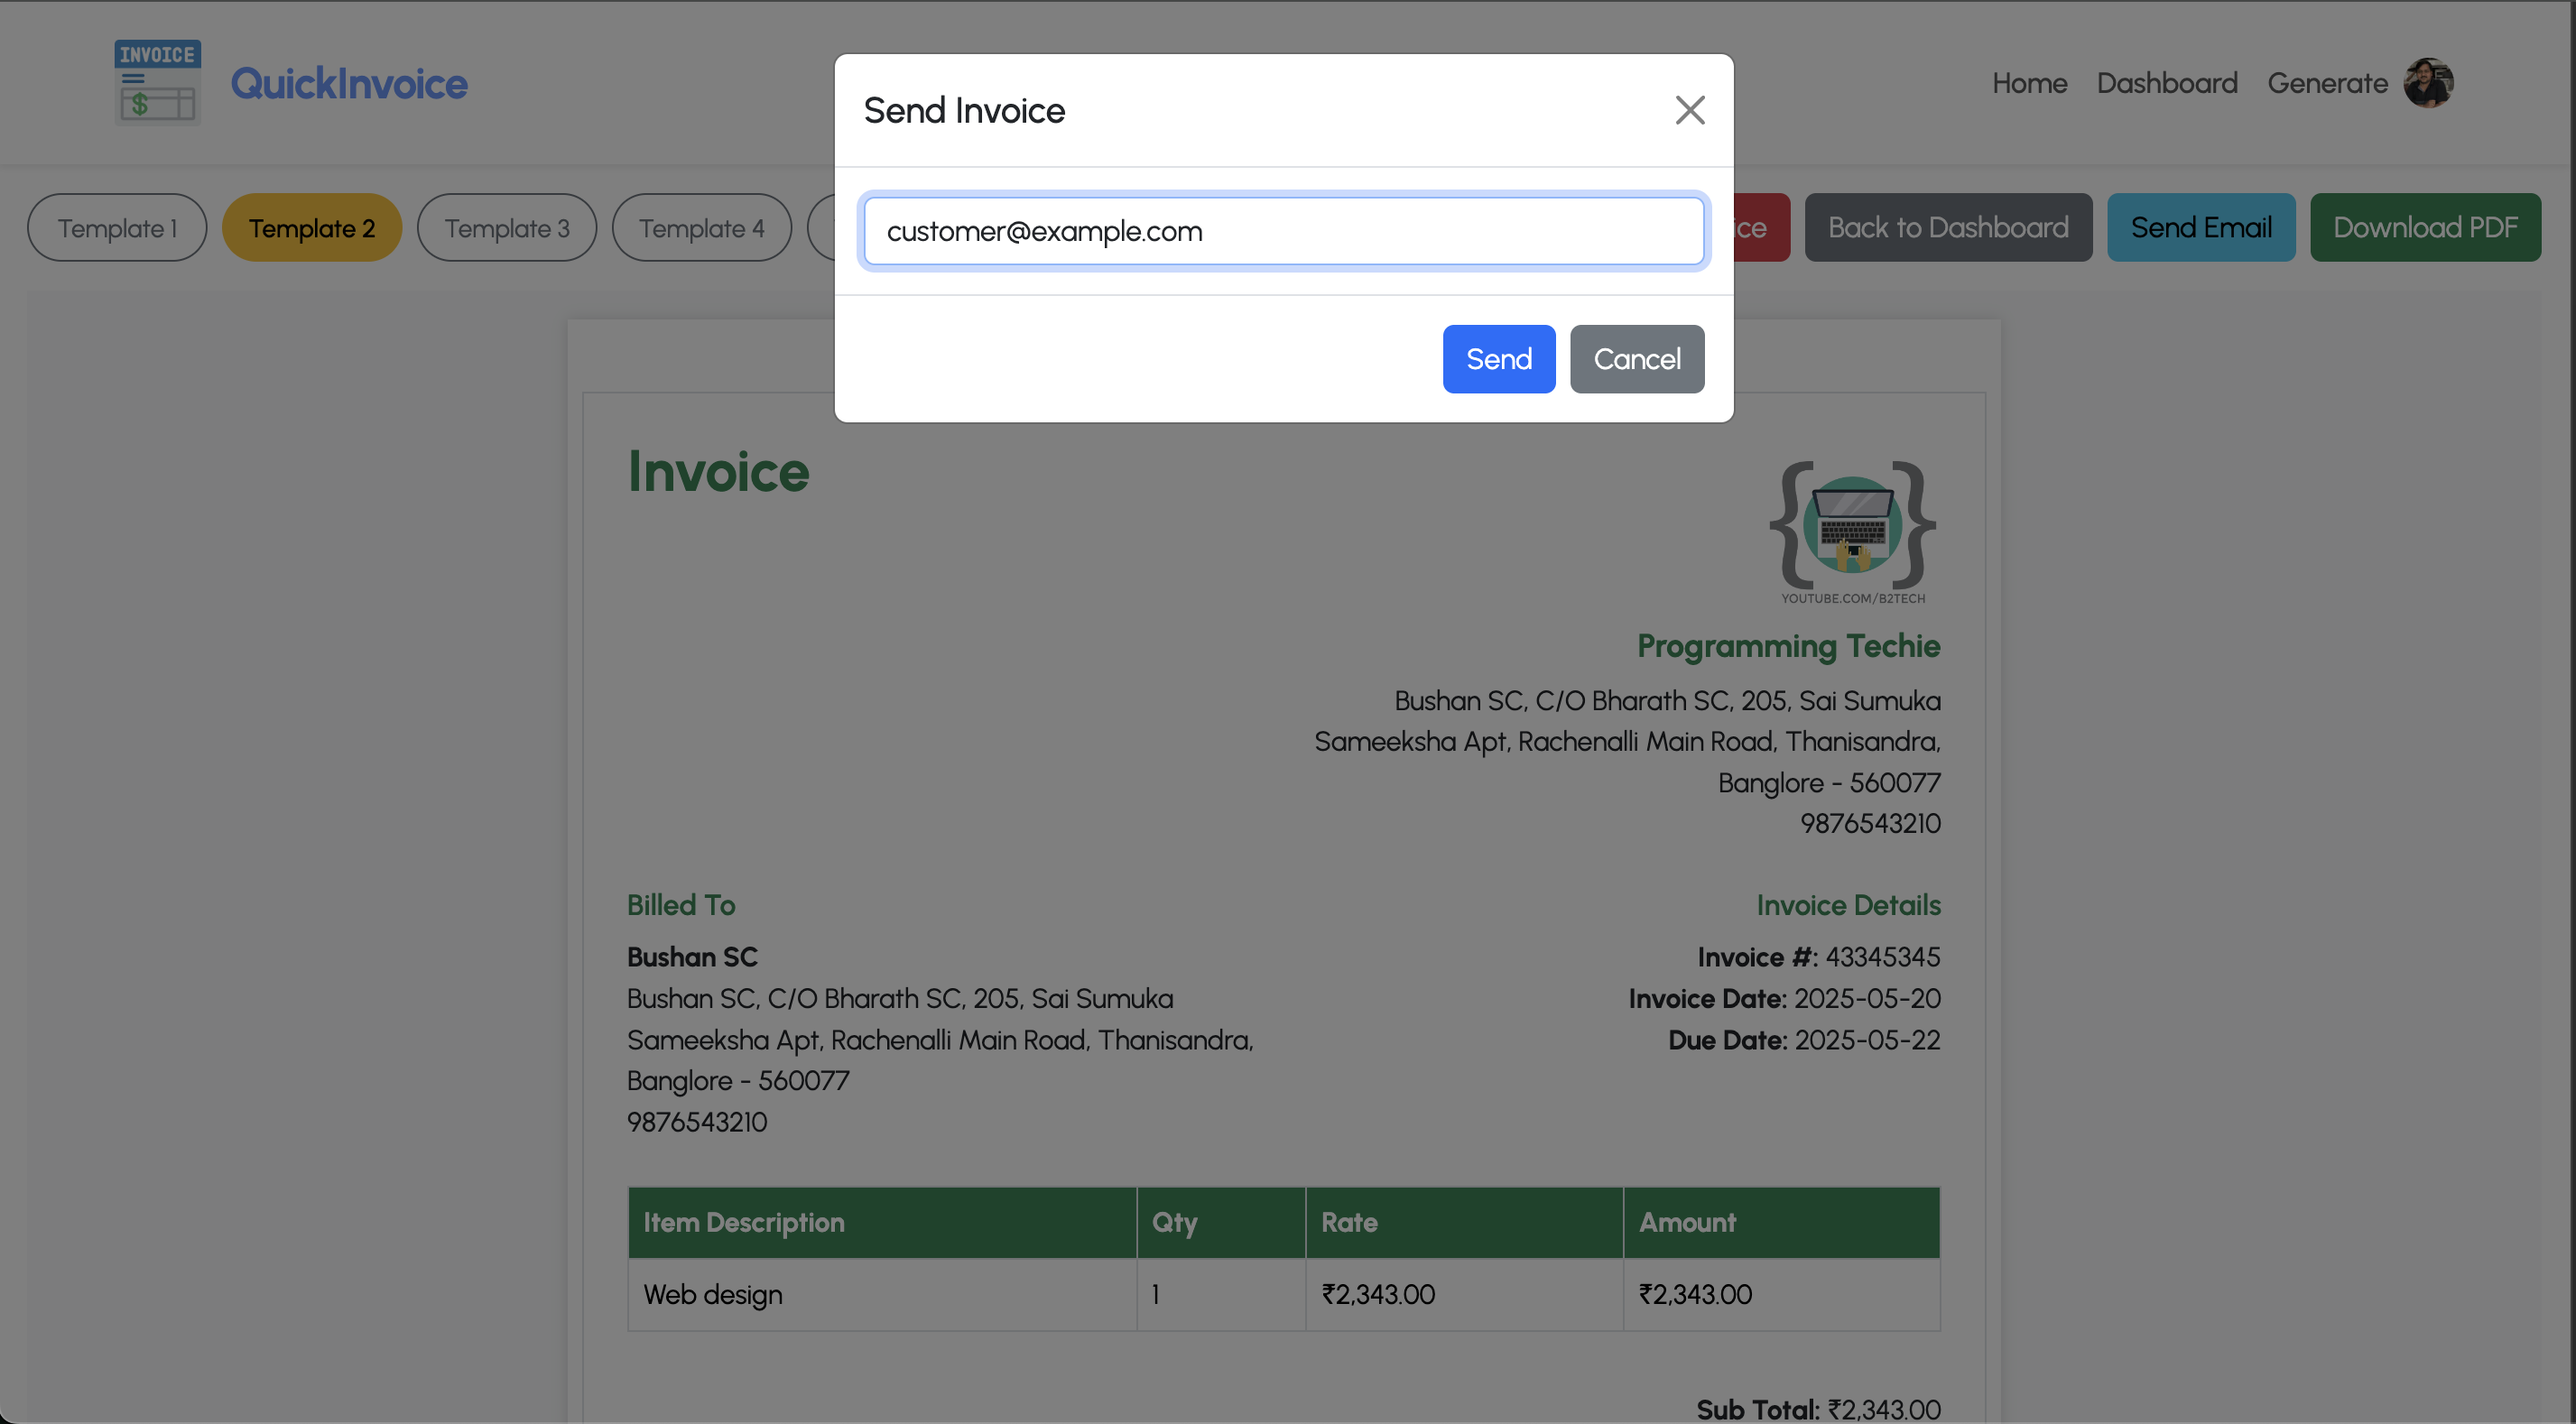
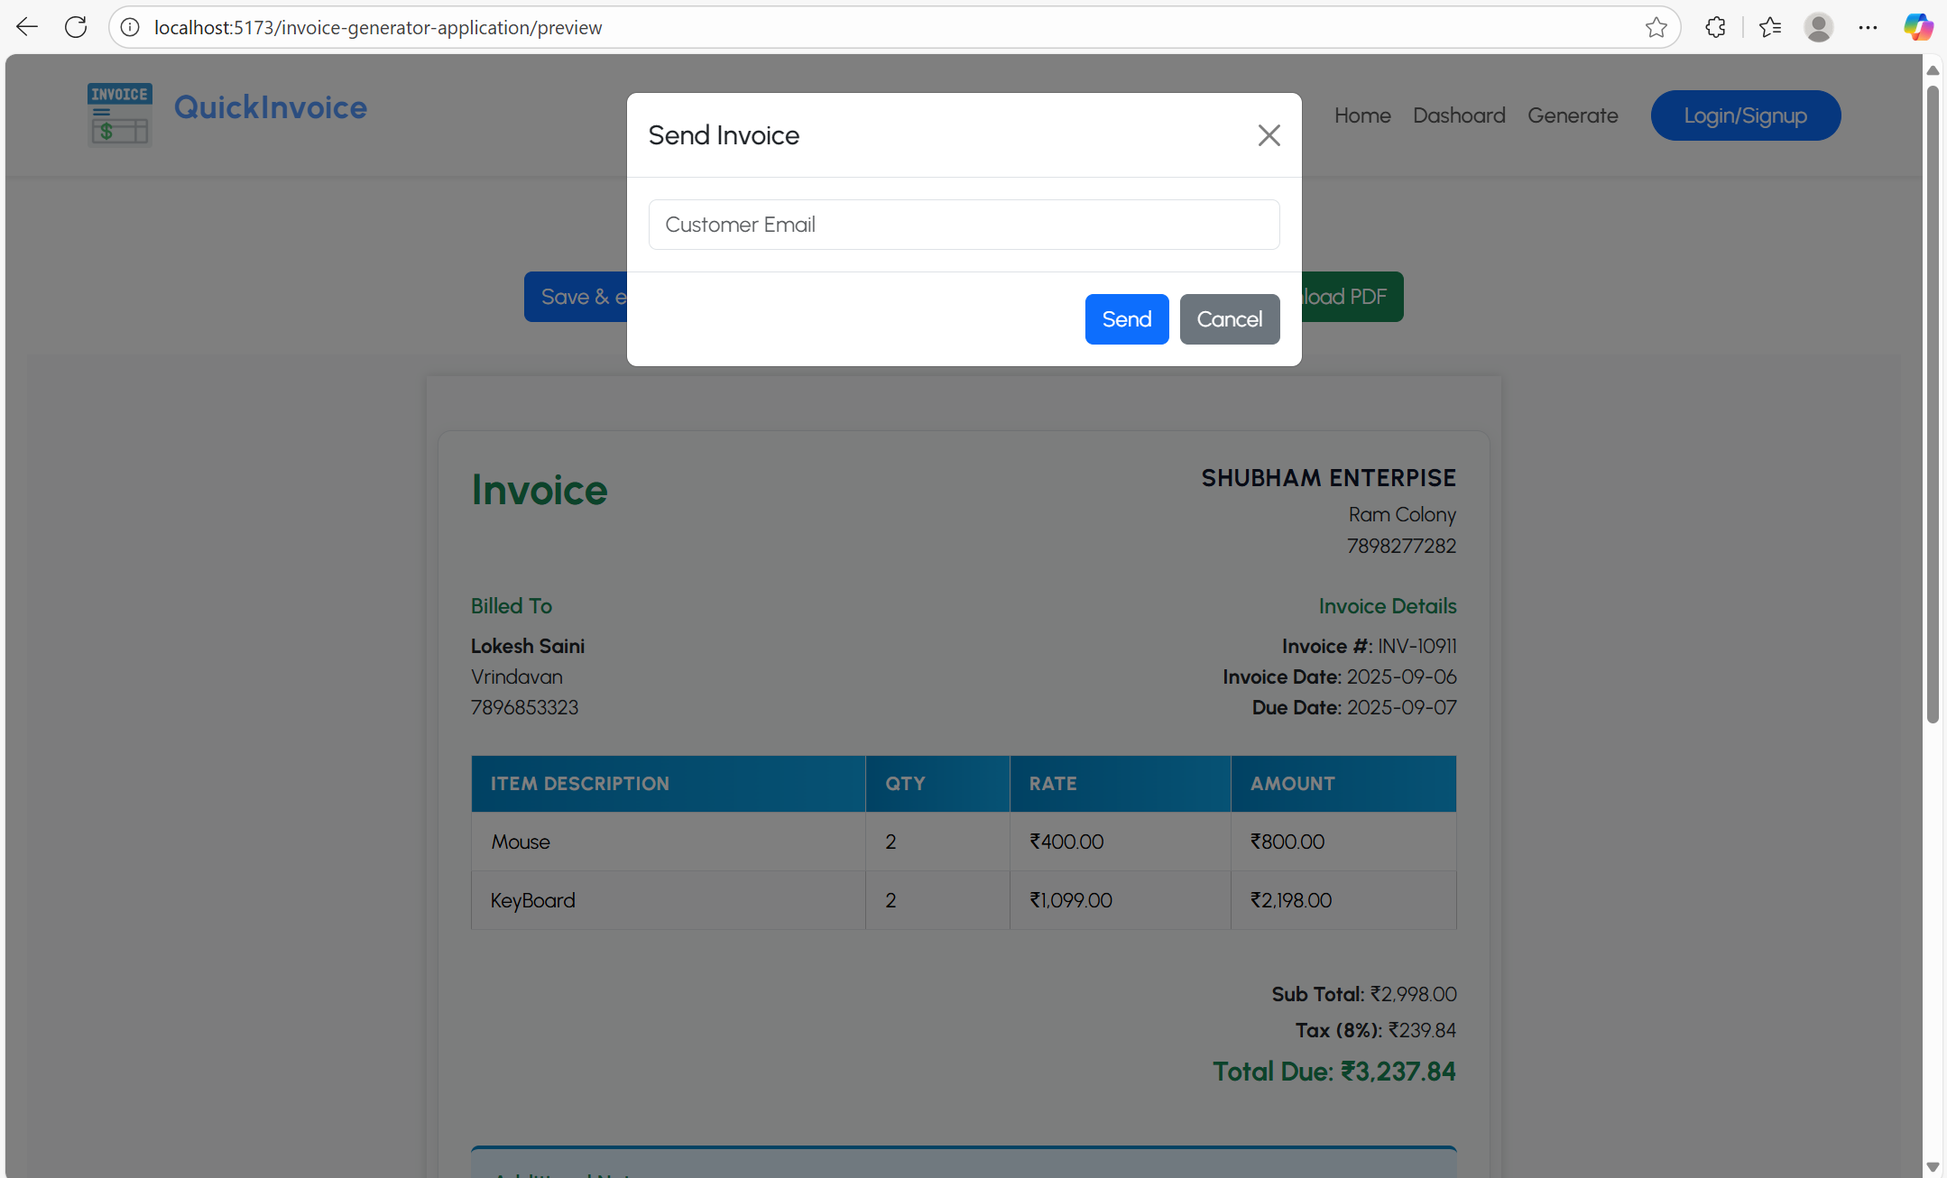
implementin security

diff --git a/invoice_generator_frontend/src/pages/PreviewPage.jsx/PreviewPage.jsx b/invoice_generator_frontend/src/pages/PreviewPage.jsx/PreviewPage.jsx
@@ -14,13 +14,17 @@ import generatedPdf from "../../util/pdfUtils.js";
 export const PreviewPage= () =>{
     const navigate = useNavigate();
     const previewRef = useRef();
-    const {selectTemplate, invoiceData, setSelectTemplate, baseURL} = useContext(AppContext);
+    const {selectTemplate, invoiceData,setInvoiceData, setSelectTemplate, baseURL} = useContext(AppContext);
     const [loading, setLoading] = useState(false);
     const[downloading, setDownloading] = useState(false);
     const [showModal, setShowModal] = useState(false);  
     const [customerEmail, setCustomerEmail] = useState("");
     const [emailing, setEmailing] = useState(false);   
-   
+     
+
+    const handleEditInvoice = ()=>{
+        navigate("/generate");
+    }
     const handleSaveExit = async() =>{
         try{
             setLoading(true);
@@ -161,11 +165,13 @@ export const PreviewPage= () =>{
 
                     {/* List of action button */}
                     <div className="d-flex flex-wrap justify-content-center gap-2">
+                        <button className="btn btn-primary" onClick={handleEditInvoice}>Edit Invoice</button>
                         <button className="btn btn-primary d-flex align-items-center justify-content-center" 
                         onClick = {handleSaveExit} disabled = {loading}>
                             {loading && <Loader2 className="me-2 spin-animation" size ={18} />}
                             {loading? "saving..." : "Save & exit"}
                         </button>
+                        
                         <button className="btn btn-danger" onClick = {handleDeleteInvoice}>Delete Invoice</button>
                         <button className="btn btn-secondary" onClick = {() =>{navigate("/dashboard")}}> Back to Dashboard</button>
                         <button className="btn btn-info" onClick={() => setShowModal(true)}> Send Email</button>

diff --git a/inovoice_generator_backend/QuickInvoice/src/main/java/com/lokesh/QuickInvoice/security/JwtUtils.java b/inovoice_generator_backend/QuickInvoice/src/main/java/com/lokesh/QuickInvoice/security/JwtUtils.java
@@ -1,0 +1,43 @@
+package com.lokesh.QuickInvoice.security;
+
+import java.nio.charset.StandardCharsets;
+import java.util.Date;
+
+import org.springframework.beans.factory.annotation.Value;
+import org.springframework.security.core.userdetails.UserDetails;
+import org.springframework.stereotype.Component;
+import io.jsonwebtoken.security.Keys;
+import javax.crypto.SecretKey;
+import io.jsonwebtoken.Jwts;
+import io.jsonwebtoken.SignatureAlgorithm;
+
+
+
+@Component
+public class JwtUtils {
+	
+	@Value("${jwt.secret}")
+	private String jwtSecret;
+	
+	@Value("{jwt.expirationMs}")
+	private int jwtExpirationMs;
+	
+	private SecretKey getSigningKey() {
+        return Keys.hmacShaKeyFor(jwtSecret.getBytes(StandardCharsets.UTF_8));
+    }
+	
+	//generate Token
+	public String generateJwtToken(UserDetails userDetails) {
+        return Jwts.builder()
+                .setSubject(userDetails.getUsername()) 
+                .setIssuedAt(new Date())
+                .setExpiration(new Date((new Date()).getTime() + jwtExpirationMs))
+                .signWith(getSigningKey(), SignatureAlgorithm.HS512) 
+                .compact();
+    }
+	
+	//Extract token
+	
+	
+
+}

diff --git a/inovoice_generator_backend/QuickInvoice/src/main/java/com/lokesh/QuickInvoice/model/User.java b/inovoice_generator_backend/QuickInvoice/src/main/java/com/lokesh/QuickInvoice/model/User.java
@@ -1,0 +1,62 @@
+package com.lokesh.QuickInvoice.model;
+
+import java.util.Set;
+import java.util.HashSet;
+
+import org.springframework.data.annotation.Id;
+
+public class User {
+ 
+@Id	
+private String id;	
+private String userName;
+private String password;
+private String email;
+private Set<String> roles = new HashSet<>();
+
+public User(String userName, String email, String password, Set<String> roles) {
+    this.userName = userName;
+    this.email = email;
+    this.password = password;
+    this.roles = roles;
+}
+
+// Getters & Setters
+public String getId() 
+{ 
+	return id;
+}
+public void setId(String id) { 
+	this.id = id;
+	}
+
+public String getUserName() { 
+	return userName;
+	}
+public void setUserName(String userName) { 
+	this.userName = userName;
+	}
+
+public String getEmail() { 
+	return email;
+	}
+public void setEmail(String email) { 
+	this.email = email;
+	}
+
+public String getPassword() { 
+	return password;
+	}
+public void setPassword(String password) { 
+	this.password = password;
+	}
+
+public void setRoles(Set<String> roles) {
+	this.roles = roles;
+}
+
+public Set<String> getRoles(){
+	return roles;
+}
+
+}

diff --git a/inovoice_generator_backend/QuickInvoice/src/main/java/com/lokesh/QuickInvoice/repository/UserRepository.java b/inovoice_generator_backend/QuickInvoice/src/main/java/com/lokesh/QuickInvoice/repository/UserRepository.java
@@ -1,0 +1,14 @@
+package com.lokesh.QuickInvoice.repository;
+
+import java.util.Optional;
+
+import org.springframework.data.mongodb.repository.MongoRepository;
+
+import com.lokesh.QuickInvoice.model.User;
+
+public interface UserRepository extends MongoRepository<User, String> {
+	Optional<User> findByUsername(String userName);
+	Boolean existsBuserName(String userName);
+	Boolean existsByEmail(String email);
+
+}
